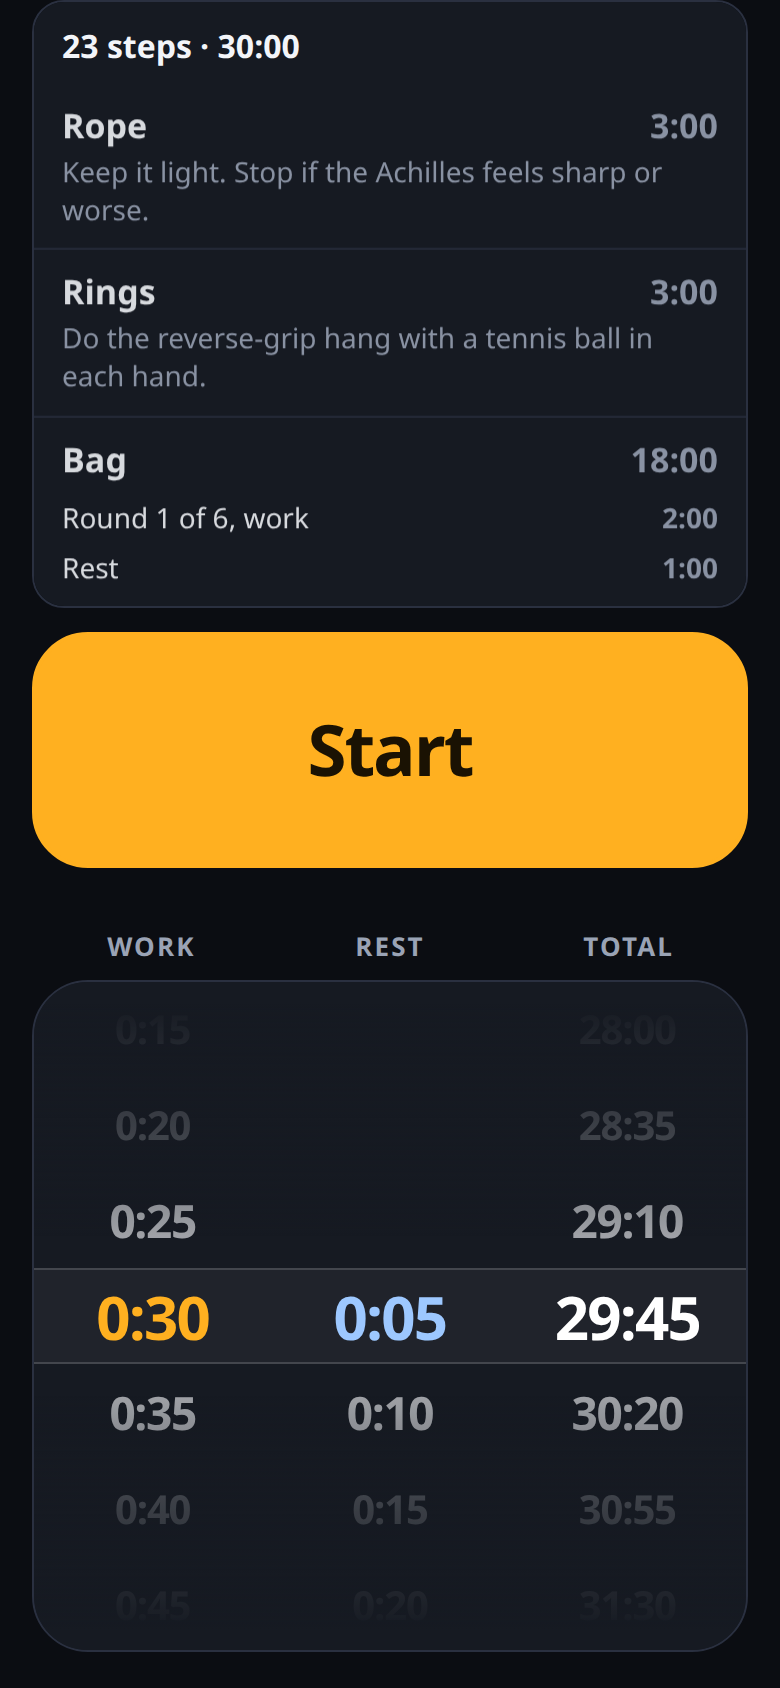
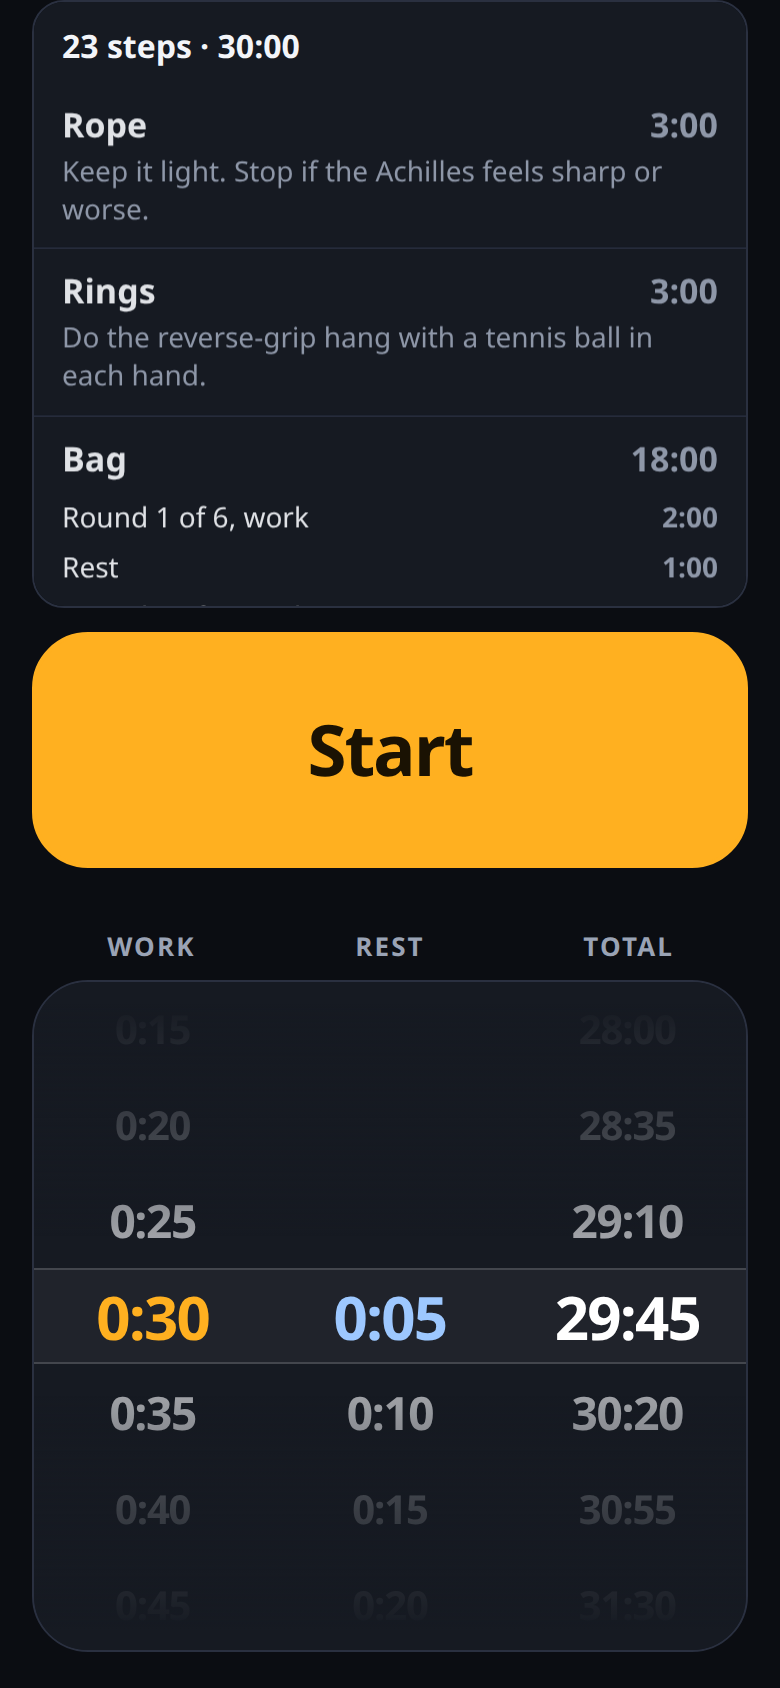
Keep a round when the rest is zero and warn on a skipped line. (#11)
0: 00 off was not a duration, so the jump-rope line was dropped with no message. A zero rest is now just the work step, and a line that looks like a step but cannot be read stays in the preview.

diff --git a/app.js b/app.js
@@ -395,7 +395,10 @@
 
   // ---------- pasted workout ----------
   var MAX_BLOCK_S = 6 * 3600;
-  var DUR_SRC = '(\\d+:\\d{1,2}(?::\\d{2})?|\\d+(?:\\.\\d+)?\\s*(?:hours?|hrs?|hr|h|minutes?|mins?|min|m|seconds?|secs?|sec|s))';
+  var DUR_BODY = '\\d+:\\d{1,2}(?::\\d{2})?|\\d+(?:\\.\\d+)?\\s*(?:hours?|hrs?|hr|h|minutes?|mins?|min|m|seconds?|secs?|sec|s)';
+  var DUR_SRC = '(' + DUR_BODY + ')';
+  // A rest of zero is still a rest: "0:00", "0s", or a bare "0".
+  var OFF_SRC = '(' + DUR_BODY + '|0)';
   var NAME_DUR_RE = new RegExp('^(.+?)\\s*[,\\-]\\s*' + DUR_SRC + '\\s*$', 'i');
   var REST_PATTERNS = [
     /rest(?:ing)?\s+(.+?)\s+after\s+(?:each|every)\s+(.+?)(?=[.]|$)/i,
@@ -424,6 +427,13 @@
     var mult = /^h/.test(unit) ? 3600 : (/^m/.test(unit) ? 60 : 1);
     var out = Math.round(n * mult);
     return out > 0 ? out : null;
+  }
+  function parseOffDuration(raw) {
+    var s = String(raw || '').trim().toLowerCase().replace(/\.\s*$/, '').replace(/\s+/g, ' ');
+    if (!s) return null;
+    if (/^0(?::00(?::00)?)?$/.test(s)) return 0;
+    if (/^0(?:\.0+)?\s*(?:hours?|hrs?|hr|h|minutes?|mins?|min|m|seconds?|secs?|sec|s)$/.test(s)) return 0;
+    return parseDurationToken(s);
   }
   function parseDurationLoose(raw) {
     var exact = parseDurationToken(raw);
@@ -497,7 +507,7 @@
   function parseRounds(header) {
     var re = new RegExp(
       '^(.*?)(?:[,\\-]\\s*|\\s+)?(\\d+)\\s+rounds?(?:\\s+of)?\\s+' + DUR_SRC +
-      '\\s+(?:on|work)(?:\\s*(?:/|,|and)\\s*|\\s+)' + DUR_SRC + '\\s+(?:off|rest)\\s*$',
+      '\\s+(?:on|work)(?:\\s*(?:/|,|and)\\s*|\\s+)' + OFF_SRC + '\\s+(?:off|rest)\\s*$',
       'i'
     );
     var m = header.match(re);
@@ -505,8 +515,8 @@
     var name = cleanName(m[1]);
     var n = parseInt(m[2], 10);
     var onSec = parseDurationToken(m[3]);
-    var offSec = parseDurationToken(m[4]);
-    if (!(n > 0) || n > 300 || !onSec || !offSec) return null;
+    var offSec = parseOffDuration(m[4]);
+    if (!(n > 0) || n > 300 || !(onSec > 0) || offSec == null) return null;
     if (name && !nameOk(name)) return null;
     if (n * (onSec + offSec) > MAX_BLOCK_S) return null;
     return { name: name || 'Work', rounds: n, onSec: onSec, offSec: offSec };
@@ -514,7 +524,7 @@
   function parseRepeat(header) {
     var re = new RegExp(
       '^(.*?)(?:[,\\-]\\s*|\\s+)?(\\d+)\\s*[x×]\\s*' + DUR_SRC +
-      '\\s*(?:on|work)?\\s*(?:/|,|and)\\s*' + DUR_SRC + '\\s*(?:off|rest)?\\s*$',
+      '\\s*(?:on|work)?\\s*(?:/|,|and)\\s*' + OFF_SRC + '\\s*(?:off|rest)?\\s*$',
       'i'
     );
     var m = header.match(re);
@@ -522,8 +532,8 @@
     var name = cleanName(m[1]);
     var n = parseInt(m[2], 10);
     var onSec = parseDurationToken(m[3]);
-    var offSec = parseDurationToken(m[4]);
-    if (!(n > 0) || n > 300 || !onSec || !offSec) return null;
+    var offSec = parseOffDuration(m[4]);
+    if (!(n > 0) || n > 300 || !(onSec > 0) || offSec == null) return null;
     if (name && !nameOk(name)) return null;
     if (n * (onSec + offSec) > MAX_BLOCK_S) return null;
     return { name: name || 'Work', rounds: n, onSec: onSec, offSec: offSec };
@@ -531,7 +541,7 @@
   function parseOnOffFor(header) {
     var re = new RegExp(
       '^(.*?)(?:[,\\-]\\s*|\\s+)?' + DUR_SRC +
-      '\\s*(?:on|work)(?:\\s*(?:/|,|and)\\s*|\\s+)' + DUR_SRC +
+      '\\s*(?:on|work)(?:\\s*(?:/|,|and)\\s*|\\s+)' + OFF_SRC +
       '\\s*(?:off|rest)?\\s+for\\s+' + DUR_SRC + '\\s*$',
       'i'
     );
@@ -539,9 +549,9 @@
     if (!m) return null;
     var name = cleanName(m[1]);
     var onSec = parseDurationToken(m[2]);
-    var offSec = parseDurationToken(m[3]);
+    var offSec = parseOffDuration(m[3]);
     var total = parseDurationToken(m[4]);
-    if (!onSec || !offSec || !total) return null;
+    if (!(onSec > 0) || offSec == null || !(total > 0)) return null;
     if (name && !nameOk(name)) return null;
     if (total > MAX_BLOCK_S) return null;
     return { name: name || 'Work', seconds: total, workSec: onSec, restSec: offSec };
@@ -591,14 +601,14 @@
   }
   function findOnOffPattern(text) {
     var re = new RegExp(
-      DUR_SRC + '\\s*(?:on|work)(?:\\s*(?:/|,|and)\\s*|\\s+)' + DUR_SRC + '\\s*(?:off|rest)?',
+      DUR_SRC + '\\s*(?:on|work)(?:\\s*(?:/|,|and)\\s*|\\s+)' + OFF_SRC + '\\s*(?:off|rest)?',
       'i'
     );
     var m = String(text || '').match(re);
     if (!m) return null;
     var onSec = parseDurationToken(m[1]);
-    var offSec = parseDurationToken(m[2]);
-    if (!onSec || !offSec) return null;
+    var offSec = parseOffDuration(m[2]);
+    if (!(onSec > 0) || offSec == null) return null;
     return { match: m[0], onSec: onSec, offSec: offSec };
   }
   function findRestPattern(text) {
@@ -611,6 +621,10 @@
   function expandOnOff(total, work, rest) {
     var out = [];
     var left = total;
+    if (!(rest > 0)) {
+      if (total > 0 && work > 0) out.push({ kind: 'work', seconds: total });
+      return out;
+    }
     var guard = 0;
     while (left > 0 && guard++ < 500) {
       var w = Math.min(work, left);
@@ -657,11 +671,12 @@
     var re = new RegExp('^' + DUR_SRC + '\\s+(.+?)$', 'i');
     var m = String(piece || '').trim().match(re);
     if (!m) return null;
-    var seconds = parseDurationToken(m[1]);
+    var seconds = parseOffDuration(m[1]);
     var label = titleLabel(m[2]);
-    if (!seconds || !label || !nameOk(label)) return null;
-    var rest = /^rest(?:ing)?$/i.test(label);
-    return { seconds: seconds, name: rest ? 'Rest' : label, kind: rest ? 'rest' : 'work' };
+    if (seconds == null || !label || !nameOk(label)) return null;
+    var restName = /^rest(?:ing)?$/i.test(label);
+    if (!(seconds > 0) && !restName) return null;
+    return { seconds: seconds, name: restName ? 'Rest' : label, kind: restName ? 'rest' : 'work' };
   }
   // "N rounds of 0:30 swings, 0:15 rest, 0:30 bench, 0:45 rest"
   function parseSequenceRounds(header) {
@@ -768,6 +783,7 @@
       for (i = 1; i <= parsed.rounds; i++) {
         for (j = 0; j < parsed.sequence.length; j++) {
           seg = parsed.sequence[j];
+          if (!(seg.seconds > 0)) continue;
           var label = seg.kind === 'rest' ? 'Rest' : seg.name;
           var stepName = label + ', round ' + i + ' of ' + parsed.rounds;
           var stepCue = seg.kind === 'rest' ? '' : (parsed.cue || '');
@@ -784,7 +800,7 @@
         step = makeStep(parsed.name, 'Round ' + i + ' of ' + parsed.rounds + ', work', parsed.cue, parsed.onSec, 'work');
         step.speak = notes[i] ? ('Round ' + i + ', ' + notes[i]) : ('Round ' + i);
         steps.push(step);
-        steps.push(makeStep(parsed.name, 'Rest', '', parsed.offSec, 'rest'));
+        if (parsed.offSec > 0) steps.push(makeStep(parsed.name, 'Rest', '', parsed.offSec, 'rest'));
       }
     } else if (parsed.workSec) {
       var segs = expandOnOff(parsed.seconds, parsed.workSec, parsed.restSec);
@@ -895,15 +911,50 @@
     s = s.replace(/\u00A0/g, ' ');
     return breakBeforeStepHeaders(s);
   }
+  function lineLooksAttempted(raw) {
+    var line = cleanLine(raw);
+    if (!line) return false;
+    if (/\d+\s+rounds?\b/i.test(line)) return true;
+    if (/\d+\s*[x×]\s*\d/i.test(line)) return true;
+    var header = splitHeaderCue(line).header.replace(/[.]+$/g, '').trim();
+    if (!header) return false;
+    if (commaOrDashDuration(header)) return true;
+    var split = stripTrailingParen(header);
+    if (split.paren && (parseDurationToken(split.paren) || parseOffDuration(split.paren) === 0)) return true;
+    if (parseSimple(split.main) || parseSimple(header)) return true;
+    return false;
+  }
+  function skippedLine(lineNo, raw, reason) {
+    return { error: true, line: lineNo, text: cleanLine(raw), reason: reason };
+  }
   function parseWorkout(text) {
     var blocks = [], steps = [], errors = [];
     var lines = prepareWorkoutText(text).split('\n');
     for (var i = 0; i < lines.length; i++) {
-      if (!String(lines[i] || '').trim()) continue;
-      if (blocks.length >= 200) break;
-      var parsed = parseWorkoutLine(lines[i]);
-      if (!parsed || parsed.error) continue;
+      var rawLine = String(lines[i] || '');
+      if (!rawLine.trim()) continue;
+      if (blocks.length >= 200) {
+        var cap = skippedLine(i + 1, rawLine, 'Too many lines. This one and the rest were left out.');
+        errors.push(cap);
+        blocks.push(cap);
+        break;
+      }
+      var parsed = parseWorkoutLine(rawLine);
+      if (!parsed || parsed.error) {
+        if (lineLooksAttempted(rawLine)) {
+          var missed = skippedLine(i + 1, rawLine, 'Could not read this line, so it was left out.');
+          errors.push(missed);
+          blocks.push(missed);
+        }
+        continue;
+      }
       var block = expandParsed(parsed);
+      if (!block.steps.length || !(block.seconds > 0)) {
+        var empty = skippedLine(i + 1, rawLine, 'This line has no time, so it was left out.');
+        errors.push(empty);
+        blocks.push(empty);
+        continue;
+      }
       blocks.push(block);
       for (var s = 0; s < block.steps.length; s++) steps.push(block.steps[s]);
     }
@@ -981,13 +1032,13 @@
     ui.workoutStart.hidden = false;
     ui.workoutStart.textContent = 'Start';
     var plan = workoutPlan;
-    if (!plan.steps.length) {
+    if (!plan.steps.length && !(plan.errors && plan.errors.length)) {
       ui.workoutPreview.hidden = true;
       ui.workoutStart.disabled = true;
       return;
     }
     ui.workoutPreview.hidden = false;
-    ui.workoutStart.disabled = false;
+    ui.workoutStart.disabled = !plan.steps.length;
     var totalLine = document.createElement('p');
     totalLine.className = 'summary workout-total';
     totalLine.textContent = workoutSummaryText(plan);
@@ -1309,7 +1360,7 @@
     var totalSec = 0;
     for (var i = 0; i < source.length; i++) {
       var src = source[i];
-      if (!(src.seconds > 0)) return null;
+      if (!(src.seconds > 0)) continue;
       steps.push({ block: src.block, name: src.name, cue: src.cue, seconds: src.seconds, kind: src.kind, speak: src.speak });
       totalSec += src.seconds;
     }

diff --git a/sw.js b/sw.js
@@ -1,5 +1,5 @@
 /* Interval Chime service worker: offline app shell, no network calls of its own. */
-var VERSION = 'interval-chime-v12';
+var VERSION = 'interval-chime-v13';
 var ASSETS = [
   './',
   './index.html',

diff --git a/tools/test_app.py b/tools/test_app.py
@@ -870,6 +870,57 @@ with sync_playwright() as p:
     stop(page)
     page.wait_for_timeout(80)
 
+    # A zero rest is still a round. It adds the work and no rest step.
+    bag = "Double-end bag, 4 rounds of 2 sec on, 2 sec off: Jab."
+    bag_plan = page.evaluate("(t) => window.__chime.parseWorkout(t)", bag)
+    rope = "Jump rope easy, 1 round of 1:30 on, 0:00 off\n" + bag
+    rope_plan = page.evaluate("(t) => window.__chime.parseWorkout(t)", rope)
+    rope_steps = rope_plan["steps"]
+    check("zero rest keeps the jump rope and adds 1:30",
+          rope_plan["ok"] is True and rope_plan["errors"] == []
+          and len(rope_steps) == len(bag_plan["steps"]) + 1
+          and rope_plan["totalSeconds"] == bag_plan["totalSeconds"] + 90
+          and rope_steps[0]["block"] == "Jump rope easy" and rope_steps[0]["seconds"] == 90
+          and rope_steps[0]["kind"] == "work" and rope_steps[1]["kind"] == "work"
+          and rope_steps[1]["block"] == "Double-end bag"
+          and all(s["kind"] != "rest" or s["block"] != "Jump rope easy" for s in rope_steps),
+          (len(rope_steps), rope_plan["totalSeconds"], rope_steps[0], rope_plan["errors"]))
+    zero_forms = [
+        "Jump rope easy, 1 round of 1:30 on, 0 off",
+        "Jump rope easy, 1 round of 1:30 on, 0s rest",
+        "Jump rope easy, 1 round of 90 sec on, 0 sec off",
+        "Jump rope easy, 1 round of 1:30 on, 0 seconds rest",
+    ]
+    for form in zero_forms:
+        got = page.evaluate("(t) => window.__chime.parseWorkout(t)", form)
+        check("zero rest variant: " + form.split(", ")[-1],
+              got["ok"] is True and got["errors"] == [] and len(got["steps"]) == 1
+              and got["steps"][0]["seconds"] == 90 and got["steps"][0]["kind"] == "work"
+              and got["totalSeconds"] == 90 and got["blocks"][0]["name"] == "Jump rope easy",
+              (len(got["steps"]), got["totalSeconds"], got["errors"]))
+    page.fill("#workout-text", rope + "\nShadowbox, 3 rounds of banana")
+    page.wait_for_timeout(40)
+    warned = page.evaluate("window.__chime.parseWorkout(document.getElementById('workout-text').value)")
+    preview = page.inner_text("#workout-preview")
+    check("an unreadable line is named in the preview",
+          len(warned["errors"]) == 1 and "Shadowbox, 3 rounds of banana" in warned["errors"][0]["text"]
+          and "Shadowbox, 3 rounds of banana" in preview and "left out" in preview.lower()
+          and "Jump rope easy" in preview and warned["steps"][0]["block"] == "Jump rope easy"
+          and warned["totalSeconds"] == rope_plan["totalSeconds"],
+          (warned["errors"], preview[:400]))
+    prose = page.evaluate("(t) => window.__chime.parseWorkout(t)", "just stretch\nWarm up slowly.")
+    check("plain prose is still not a warning", prose["errors"] == [] and prose["steps"] == [], prose["errors"])
+    page.fill("#workout-text", "Jump rope easy, 1 round of 2 sec on, 0:00 off\nRings, 3 sec: Smooth swings.")
+    page.wait_for_timeout(40)
+    page.click("#btn-start-workout")
+    page.wait_for_timeout(200)
+    rope_now = {"step": page.inner_text("#r-interval"), "next": page.inner_text("#r-next")}
+    check("zero rest points the next label at the following step",
+          "Jump rope easy" in rope_now["step"] and rope_now["next"] == "Next: Rings. Smooth swings.",
+          rope_now)
+    stop(page)
+    page.wait_for_timeout(80)
+
     # ---------- 6d. every iPhone size fits, buttons stay on screen ----------
     meta = page.evaluate("document.querySelector('meta[name=viewport]').content")
     check('viewport meta fits the device', 'width=device-width' in meta and 'initial-scale=1' in meta and 'viewport-fit=cover' in meta, meta)
